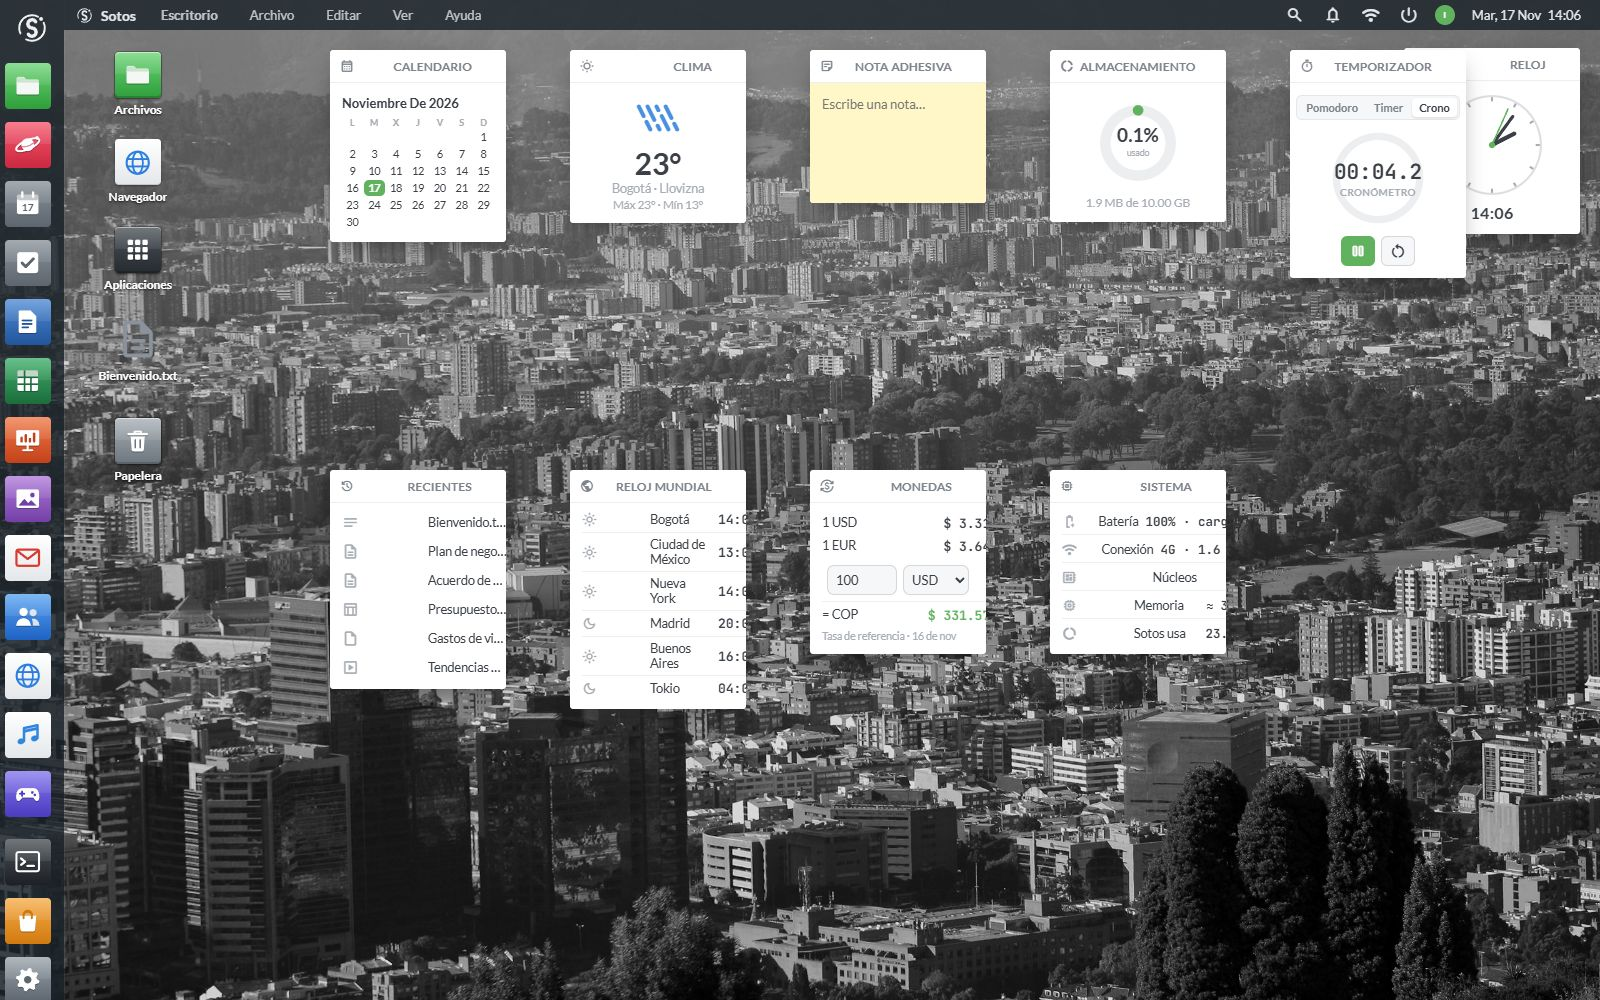
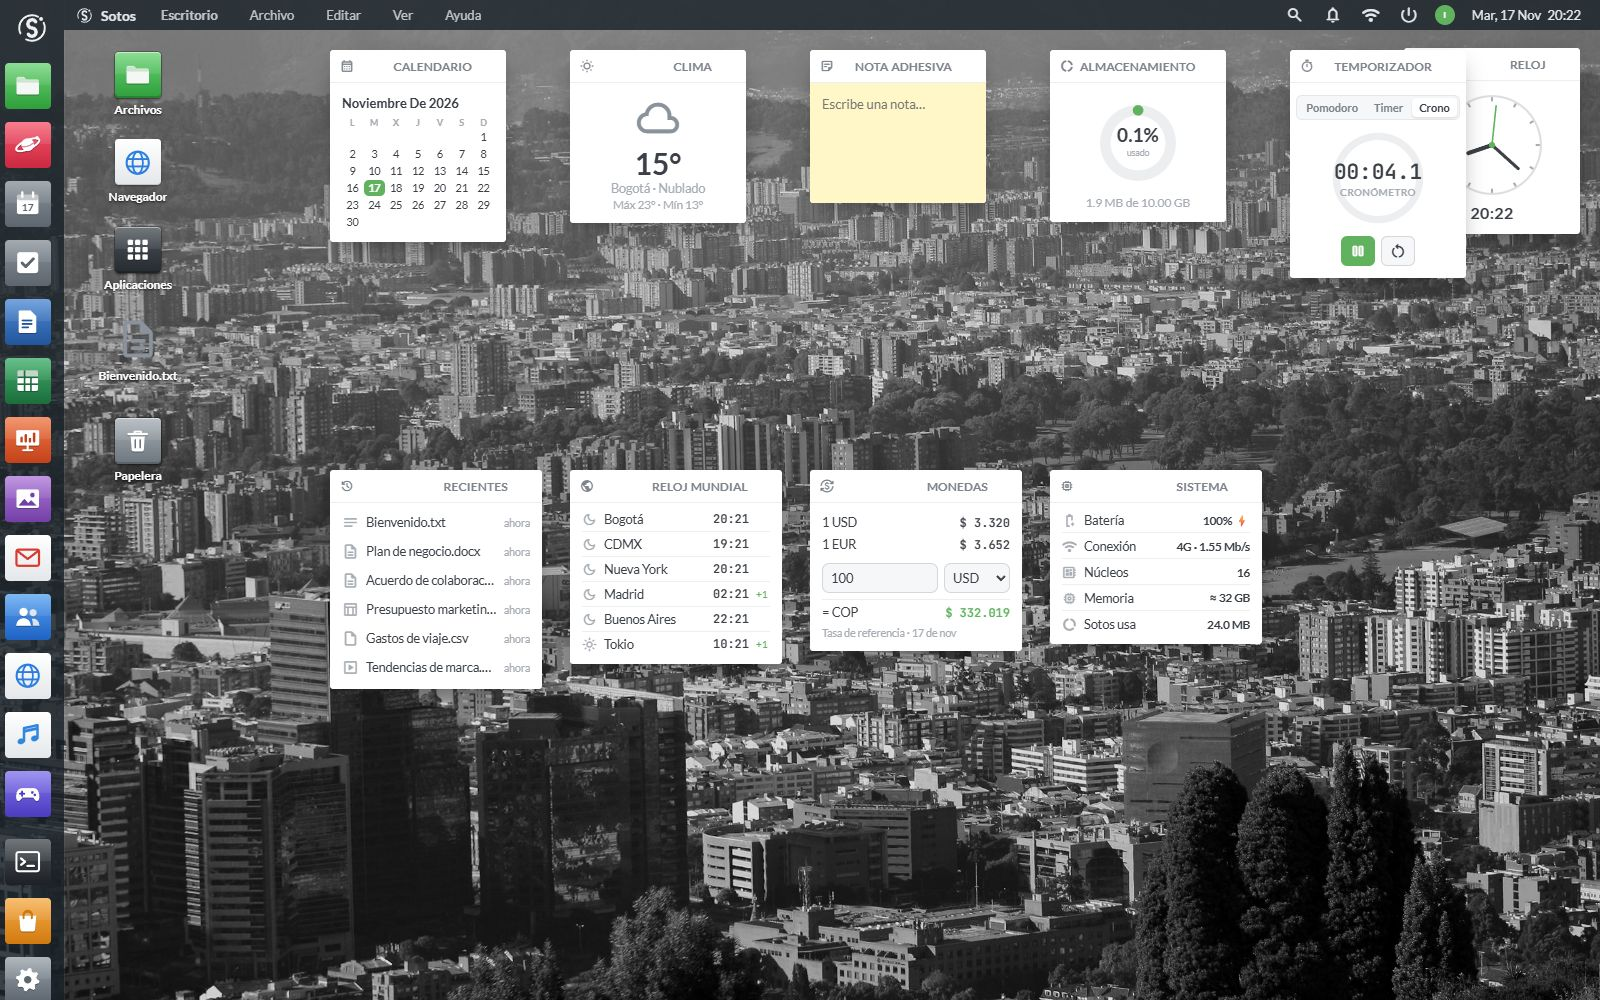
v2.3: WhatsApp app (virtual browser), README: tribute to inevio, mail, calendar, tasks, versions, store, admin, ONLYOFFICE/Euro-Office tested, Neko, new screenshots

diff --git a/web/src/os/apps3.jsx b/web/src/os/apps3.jsx
@@ -438,4 +438,26 @@ function BrowserApp({ shortcuts = [], url, scName }) {
   );
 }
 
-export { MailApp, ChatApp, BrowserApp };
+// WhatsApp Web no se deja incrustar: se abre en el navegador virtual (Neko) si el servidor lo tiene; si no, en una pestaña
+function WhatsAppApp() {
+  const neko = useNeko(); const mode = useVfs(s => s.mode);
+  const [waited, setWaited] = useS3(false);
+  useE3(() => { const t = setTimeout(() => setWaited(true), 2500); return () => clearTimeout(t); }, []);
+  const open = () => window.open("https://web.whatsapp.com", "_blank", "noopener");
+  if (neko) return (<div className="app" style={{ flexDirection: "column" }}>
+    <div className="proxy-bar"><Ic name="info" size={14} /> Escanea el código QR con tu celular (WhatsApp → Dispositivos vinculados). El navegador virtual es del servidor: lo comparte quien tenga acceso a él, así que en un servidor con varias personas cierra la sesión al terminar.</div>
+    <NekoFrame addr="https://web.whatsapp.com" neko={neko} /></div>);
+  if (!waited && mode === "cloud" && !DEMO) return <div className="app"><EmptyState icon="hourglass_empty" text="Preparando WhatsApp…" /></div>;
+  return (
+    <div className="app webview-launch" style={{ flex: 1 }}>
+      <div className="wl-card">
+        <div className="lp-svc" style={{ background: "#25a35a", width: 72, height: 72, borderRadius: 20 }}><Ic name="chat" size={38} /></div>
+        <div className="wl-title">WhatsApp</div>
+        <div className="wl-sub">WhatsApp Web no permite abrirse dentro de otra página, así que se abre en una pestaña aparte. {DEMO ? "Con Sotos instalado y el navegador virtual activado, se usa aquí dentro." : "Si el administrador activa el navegador virtual en el servidor, se usará aquí dentro."}</div>
+        <div className="wl-btns"><button className="tb-btn primary" onClick={open}><Ic name="open_in_new" /> Abrir WhatsApp Web</button></div>
+      </div>
+    </div>
+  );
+}
+
+export { MailApp, ChatApp, BrowserApp, WhatsAppApp };

diff --git a/web/src/os/data.jsx b/web/src/os/data.jsx
@@ -21,6 +21,7 @@ const APPS = [
   { id: "contacts",name: "Contactos", icon: "contacts",          color: "#2f5d8a", comp: "ContactsApp",  size: { w: 860, h: 560 } },
   { id: "chat",    name: "Mensajes",  icon: "chat_bubble",       color: "#1f7a78", comp: "ChatApp",      size: { w: 780, h: 540 } },
   { id: "browser", name: "Navegador", icon: "language",          color: "#2a7f8f", comp: "BrowserApp",   size: { w: 880, h: 580 } },
+  { id: "whatsapp", name: "WhatsApp", icon: "chat",              color: "#25a35a", comp: "WhatsAppApp",  size: { w: 1280, h: 800 } },
   { id: "terminal",name: "Terminal",  icon: "terminal",          color: "#26231f", comp: "TerminalApp",  size: { w: 660, h: 440 } },
   // apps de la Tienda (proyectos HTML propios en web/public/apps; se ven al instalarlas)
   { id: "pdfmeta",     name: "Metadatos PDF",     icon: "plagiarism",      color: "#b8402f", comp: "WebApp", url: "apps/pdfmeta/index.html",     size: { w: 1100, h: 760 }, store: true, cat: "Herramientas",  desc: "Extrae metadatos, XMP, estructura y permisos de cualquier PDF. Todo en tu navegador." },

diff --git a/README.md b/README.md
@@ -2,13 +2,17 @@
 
 # Sotos — your computer in the cloud
 
-A complete desktop that runs in the browser: windows, dock, real cloud files, Word/Excel/PowerPoint editing on genuine Office files, a web browser with an isolated proxy, a terminal, link sharing, and its own visual identity.
+A complete desktop that runs in the browser: windows, dock, real cloud files, Word/Excel/PowerPoint editing on genuine Office files (built-in editors, or ONLYOFFICE / Euro-Office), real e-mail over IMAP/SMTP with several accounts and aliases, calendar, tasks, file versions, an app store, a web browser with an isolated proxy and a virtual browser, a terminal, link sharing, and its own visual identity.
 
-© 2026 Sebastian Sotomontes. Released under the [MIT License](LICENSE). This source repository is currently private; the public showcase lives at [`Softsoto/SotosWeb`](https://github.com/Softsoto/SotosWeb) and the live demo at <https://softsoto.github.io/SotosWeb-demo/>.
+© 2026 Sebastian Sotomontes. Released under the [MIT License](LICENSE). The public showcase (in Spanish) lives at [`Softsoto/SotosWeb`](https://github.com/Softsoto/SotosWeb) and the live demo at <https://softsoto.github.io/SotosWeb-demo/>.
+
+### A tribute to inevio
+
+Sotos is also a tribute to **inevio**, the web desktop that showed, years ago, that a whole operating system could live in a browser tab. The Grafito skin, the window motion and many of the features added in versions 2.2 and 2.3 (mail, calendar, tasks, inbox, file versions, contact groups, presence, store) pay homage to what inevio made possible. Sotos does not use inevio's code, artwork or assets: everything here is written from scratch. inevio is a trademark of its respective owners; Sotos is not affiliated with it.
 
 | | |
 |---|---|
-| Version | 2.1 |
+| Version | 2.3 |
 | Desktop | React 18 + Vite 6 (`web/`) |
 | Server | Node.js ≥ 22, zero npm dependencies (`server/`) |
 | Data | SQLite built into Node (`node:sqlite`) + one file per blob; IndexedDB in the browser |
@@ -105,7 +109,13 @@ The installer messages are in Spanish, like the rest of the product.
 | `OO_URL` | — | Public Document Server URL (enables the integration) |
 | `OO_INTERNAL` | `OO_URL` | URL the server uses to download saved versions |
 | `SOTOS_INTERNAL` | `http://host.docker.internal:8787` | URL the Document Server uses to reach Sotos |
-| `SOTOS_OO_JWT` | `data/secrets.json` | JWT secret shared with ONLYOFFICE |
+| `SOTOS_OO_JWT` | `data/secrets.json` | JWT secret shared with the Document Server |
+| `OO_ENGINE` | — | Informational: `onlyoffice` or `eurooffice` (written by `scripts/onlyoffice-dev.ps1`) |
+| `NEKO_URL` | — | Public URL of the Neko virtual browser (enables it) |
+| `NEKO_CONTAINER` | — | Docker container name, used to open a given address in the virtual browser |
+| `SOTOS_NEKO_PASS` | `data/secrets.json` | Neko room password |
+| `SOTOS_ADMIN_EMAIL` | — | Account promoted to administrator (otherwise the first account) |
+| `SOTOS_MAIL_INSECURE` | — | `1` disables TLS certificate checks for mail (local tests only) |
 
 ## 4. Repository layout
 
@@ -115,7 +125,9 @@ Dockerfile · docker-compose*.yml    image and deployments (domain+HTTPS / IP)
 Caddyfile · .env.example            reverse proxy with automatic certificates
 scripts/
   capturas.mjs                      automated screenshots (headless Edge + CDP)
-  onlyoffice-dev.ps1                local Document Server for development
+  onlyoffice-dev.ps1                local Document Server (-Motor onlyoffice|eurooffice, -Puerto 8099)
+  neko-dev.ps1                      local Neko virtual browser (port 8098)
+  sync-apps.ps1                     copies the Store apps into web/public/apps
 server/
   index.mjs                         routing, static files, injected proxy origin
   http.mjs                          HTTP helpers, rate limiting, HS256 JWT
@@ -125,7 +137,13 @@ server/
   shares.mjs                        public links and "shared with me"
   social.mjs                        notifications and contacts
   worlds.mjs                        worlds: members, wall, chat, shared folder
-  oo.mjs                            ONLYOFFICE Docs integration
+  inbox.mjs                         "Send to…": files sent between accounts, accept/decline
+  agenda.mjs                        calendars, events with reminders, task lists, comments
+  store.mjs                         Store: per-account installs and star reviews
+  admin.mjs                         admin panel: stats, registration, quotas, users
+  mail.mjs                          IMAP/SMTP client and MIME parser (no dependencies), accounts, aliases
+  neko.mjs                          virtual browser session and "open this address"
+  oo.mjs                            ONLYOFFICE / Euro-Office integration
   px.mjs                            browser proxy (rewriting + injected client)
 web/src/
   main.jsx                          bootstrap, public route /#/s/<token>
@@ -211,7 +229,15 @@ Every write requires the `X-Sotos: 1` header.
 | `GET /api/worlds/:id/fs/state` · `POST …/fs/ops` · `GET\|PUT …/fs/blob/:id` | Shared folder: same pure operations as personal files, own quota |
 | `GET /api/shares/with-me` | Shared with me |
 | `GET /api/s/:token[/blob/:id[?dl]]` | Public: metadata and content inside the shared item |
-| `GET /api/oo/status` · `POST /api/oo/config` | ONLYOFFICE integration |
+| `GET /api/inbox` · `POST /api/inbox/send` · `POST …/:id/accept\|refuse` | Send files to another account |
+| `GET\|POST /api/calendar…` · `GET\|POST /api/tasks…` | Calendars, events, task lists, tasks and comments |
+| `GET /api/fs/versions/:id` · `POST …/:id/:at/restore` | File version history |
+| `GET /api/store` · `POST /api/store/:app/install\|uninstall` · `GET\|POST …/reviews` | Store |
+| `GET\|PUT /api/admin/…` | Admin panel (administrators only) |
+| `GET /api/mail/accounts` · `PUT\|DELETE /api/mail/account[?acc=]` · `PUT /api/mail/aliases?acc=` | Mail accounts and aliases |
+| `GET /api/mail/boxes\|messages[/:uid[/attachment]]?acc=` · `POST …/flags\|move` · `DELETE …/:uid` · `POST /api/mail/send` | Mailboxes, messages, sending |
+| `GET /api/neko` · `POST /api/neko/session\|open` | Virtual browser |
+| `GET /api/oo/status` · `POST /api/oo/config` | Document Server integration |
 | `GET /api/oo/file?t=` · `POST /api/oo/callback?t=` | Used by the Document Server, JWT-signed |
 
 ## 8. Browser proxy
@@ -246,7 +272,15 @@ Every write requires the `X-Sotos: 1` header.
 2. The browser loads `OO_URL/web-apps/apps/api/documents/api.js` and creates the editor in its own iframe.
 3. Callback with status 2 or 6: the URL JWT and the body or header JWT are verified, the download host must be the Document Server, the file is written atomically and a `write` operation is applied (other devices receive it through SSE).
 
-Local development: `scripts/onlyoffice-dev.ps1` (requires Docker), then restart the server's `npm run dev`. **Status: implemented, end-to-end test with Docker pending.**
+Local development: `scripts/onlyoffice-dev.ps1 -Motor onlyoffice` or `-Motor eurooffice` (requires Docker; container `sotos-docs` on port 8099), then restart the server. Both engines share the same API and JWT. **Tested end to end** with `onlyoffice/documentserver:9.1.0` and `ghcr.io/euro-office/documentserver:v9.3.1`: the editor loads inside the Sotos window, typed text comes back inside the saved `.docx`, and the previous content is kept in the version history.
+
+### Mail
+
+`mail.mjs` is a small IMAP and SMTP client written for Sotos: literal-aware response parser, modified UTF-7 mailbox names, MIME parser (multipart, base64, quoted-printable, RFC 2047, charsets, `cid:` images inlined), SMTP over implicit TLS or STARTTLS with AUTH PLAIN/LOGIN and timeouts. Each user can link up to 10 accounts; passwords are encrypted with AES-256-GCM and never sent back to the browser. Every account can have aliases (send-as identities); the From selector lists all accounts and aliases and the message goes out through the account that owns the address. Presets for Gmail, Outlook, iCloud and Yahoo (iCloud requires the primary @icloud.com address as the login and an app-specific password; a custom domain goes in as an alias). HTML mail is shown in a sandboxed iframe without scripts, and remote images are blocked until the reader asks for them.
+
+### Virtual browser (Neko)
+
+Some sites refuse to be shown inside another page (sign-ins, banks, WhatsApp Web). With `scripts/neko-dev.ps1`, a real Firefox runs in a container (`ghcr.io/m1k1o/neko/firefox:3.0.8`) and is streamed over WebRTC into the Browser (button **Virtual**) and into the **WhatsApp** app. The room is shared by everyone who can reach it, so on a multi-user server the WhatsApp session should be closed after use.
 
 ## 11. Visual identity and wallpapers
 
@@ -293,6 +327,7 @@ VITE_DEMO=1 npm run build:demo     # → ../demo-dist
 - Social layer (notifications, contacts, worlds, permissions, quotas, SSE fan-out): 26/26 API checks.
 - Two-browser end-to-end run (two accounts in separate headless Edge instances): contacts, vCard round-trip, world creation and invitation, live notification badge, wall posts and comments, chat, shared-folder upload seen live by the other member, PDF render/text layer/search, ID3 title/artist/album/cover: 18/18.
 - Public demo: tested live on GitHub Pages (apps open, `.docx`/`.xlsx` load through lazy chunks, no console or network errors).
+- Version 2.3 suites (headless Edge + CDP, two browsers where it applies): presence/inbox/groups/blocking 16/16, calendar and tasks 15/15, versions and backup 11/11, admin and region 17/17, window motion 13/13, context menus 52/52, archives 10/10, Store and Mail UI 12/12, multiple mail accounts 11/11, aliases and iCloud setup 4/4, mail API against a local IMAP/SMTP test server 29/29, ONLYOFFICE and Euro-Office 5/5 each, virtual browser 5/5.
 
 Automated screenshots (server and `web` running):
 
@@ -316,13 +351,19 @@ Launches headless Edge at 1600×1000 (device scale 1.5), uses a local screenshot
 | ![Notifications](docs/capturas/notificaciones.jpg) | ![Contacts](docs/capturas/contactos.jpg) |
 | ![PDF viewer](docs/capturas/visor-pdf.jpg) | ![Music covers](docs/capturas/musica-caratulas.jpg) |
 | ![Grafito light](docs/capturas/tema-grafito-light.jpg) | ![Grafito dark](docs/capturas/tema-grafito-dark.jpg) |
+| ![Mail](docs/capturas/correo.jpg) | ![Mail accounts and aliases](docs/capturas/correo-alias.jpg) |
+| ![Calendar](docs/capturas/calendario.jpg) | ![Tasks](docs/capturas/tareas.jpg) |
+| ![Versions](docs/capturas/versiones.jpg) | ![Store](docs/capturas/tienda.jpg) |
+| ![Euro-Office](docs/capturas/euro-office.jpg) | ![Virtual browser](docs/capturas/navegador-virtual.jpg) |
+| ![Games](docs/capturas/juegos.jpg) | ![Widgets](docs/capturas/widgets.jpg) |
 
 ## 17. Roadmap
 
-- End-to-end ONLYOFFICE test with Docker and a pinned `OO_VERSION`.
 - Syntax check of `instalar.sh` on real Linux.
 - Window controls: user's choice between Sotos, Mac and Windows styles.
 - Touch screens and a phone layout.
-- New apps (calculator, calendar, tasks, camera, maps, code editor), working Store; world roles and post attachments.
-- File version history, admin panel, automatic server backups, two-factor sign-in.
+- Interface languages besides Spanish.
+- A "lite" build without the virtual browser.
+- New apps (camera, maps, code editor); world roles and post attachments.
+- Automatic server backups, two-factor sign-in, per-user virtual browser rooms.
 - Performance (lazy-loaded apps, icon font subset), strict CSP, per-account proxy limits.
